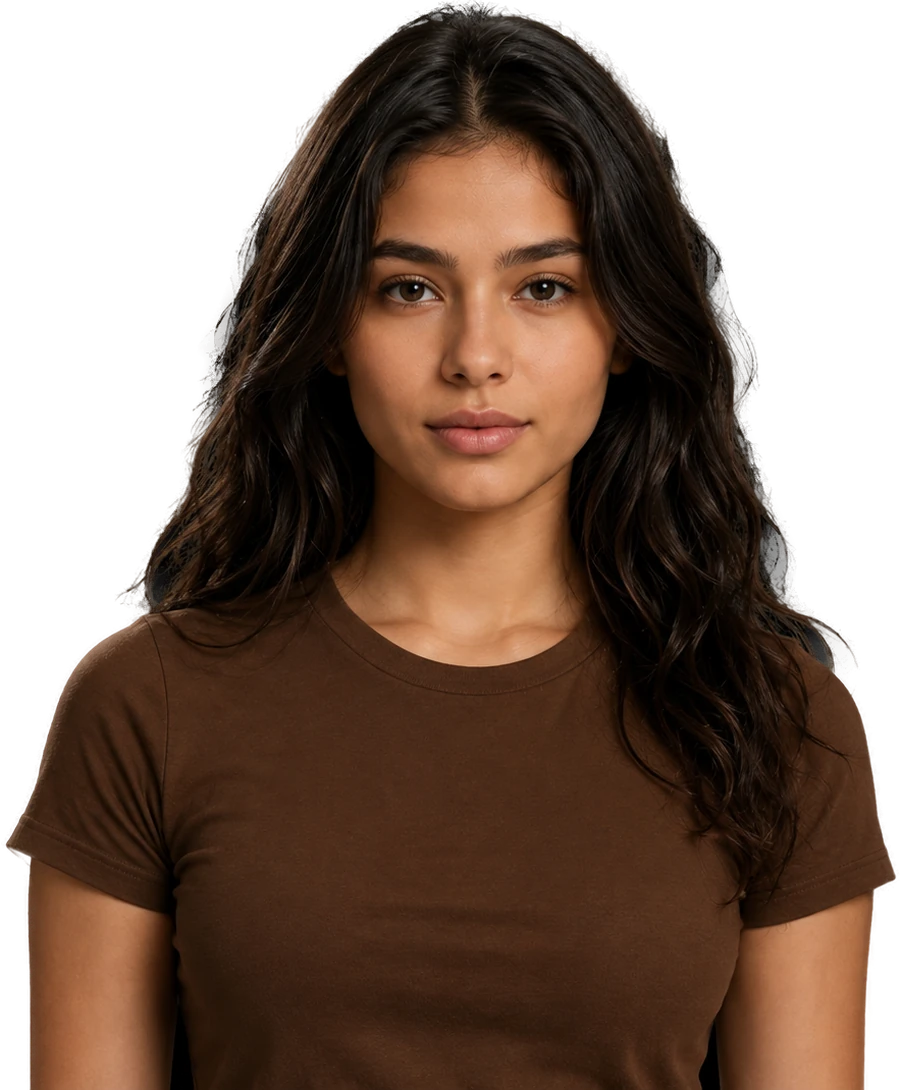
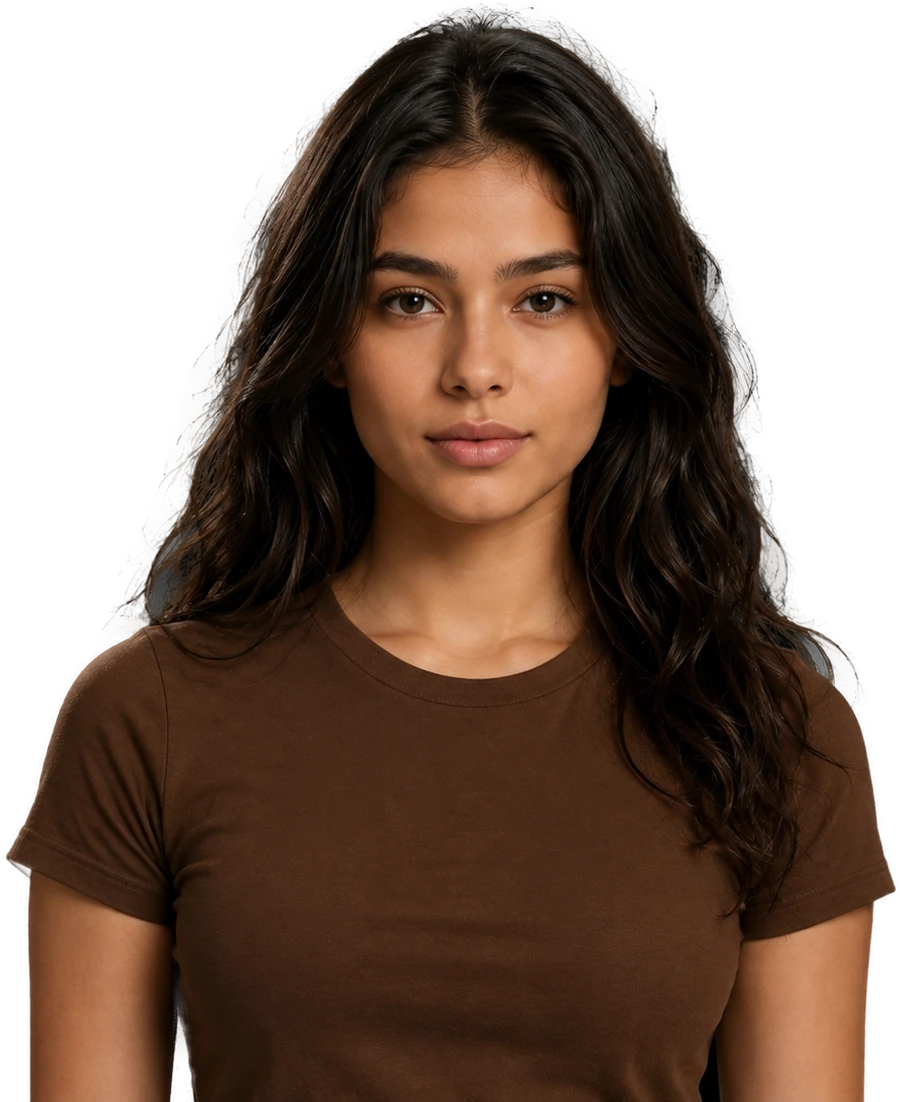
Barra na cor do botao CONTINUAR e recorte com isnet
COR
A barra usava --ink (quase preto). Passa a usar o mesmo par do botao primario do
quiz: fundo --blue (#C4956A) e texto branco. A borda de selecionado acompanha.

RECORTE
Comparei u2net, u2net_human_seg e isnet-general-use na mesma foto antes de
escolher, em vez de ficar mexendo em parametro no escuro. isnet segura mais fio
solto na borda.

De quebra some o corte embaixo da axila da foto 46+: ele vinha da semente manual
que eu usava no metodo antigo pra limpar o vao entre braco e tronco. O modelo
entende esse vao sozinho — a semente cortava um pedaco do corpo junto.

diff --git a/quiz/v2/quiz-warm.css b/quiz/v2/quiz-warm.css
@@ -3723,8 +3723,8 @@ body.marca-na-tela-1:has(#s1.screen.active) .wrap {
   display: flex; align-items: center; justify-content: space-between; gap: 8px;
   padding: 9px 10px;
   border-radius: 10px;
-  background: var(--ink);
-  color: var(--bg);
+  background: var(--blue);
+  color: #fff;
   font-family: 'DM Sans', system-ui, sans-serif;
   font-size: clamp(12.5px, 3.5vw, 15px); font-weight: 500; line-height: 1.2;
   text-align: left;
@@ -3734,12 +3734,12 @@ body.marca-na-tela-1:has(#s1.screen.active) .wrap {
   width: 26px; height: 26px;
   display: grid; place-items: center;
   border-radius: 50%;
-  background: var(--bg);
-  color: var(--ink);
+  background: #fff;
+  color: var(--blue-d);
 }
 .age-foto__chev svg { width: 13px; height: 13px; }
 .age-foto:active { transform: scale(.985); }
-.age-foto.selected { box-shadow: 0 0 0 2px var(--ink); }
+.age-foto.selected { box-shadow: 0 0 0 2px var(--blue); }
 
 /* Linha fina acima dos termos, como na referência */
 .s1-sep {

diff --git a/quiz/v2/index.html b/quiz/v2/index.html
@@ -56,7 +56,7 @@
   <link rel="preconnect" href="https://fonts.googleapis.com"/>
   <link rel="preconnect" href="https://fonts.gstatic.com" crossorigin/>
   <link rel="preload" as="style" href="https://fonts.googleapis.com/css2?family=Inter:wght@400;500;600;700;800;900&display=swap"/>
-  <link rel="stylesheet" href="quiz-warm.css?v=181"/>
+  <link rel="stylesheet" href="quiz-warm.css?v=182"/>
 </head>
 <body>
 
